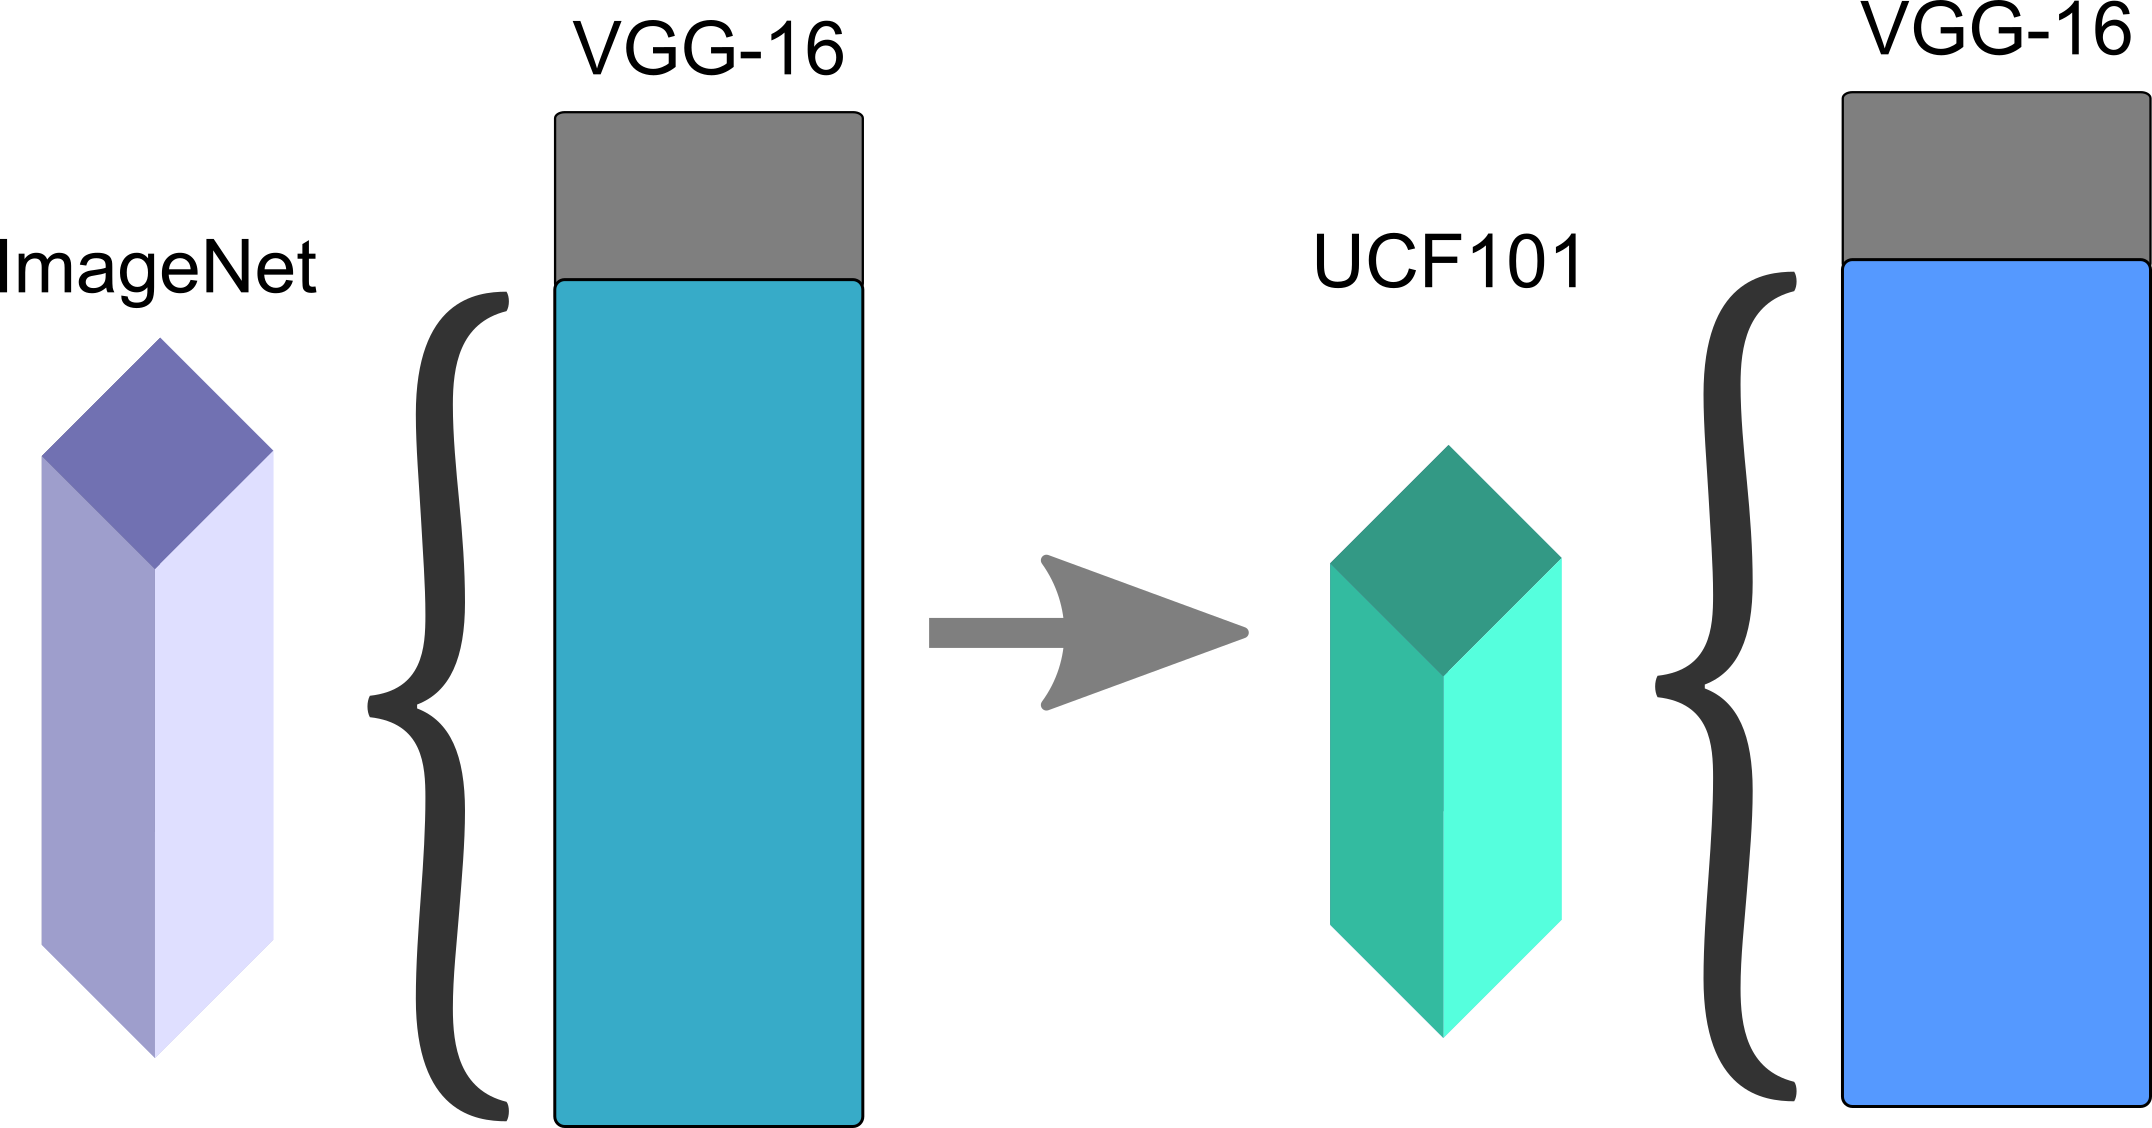
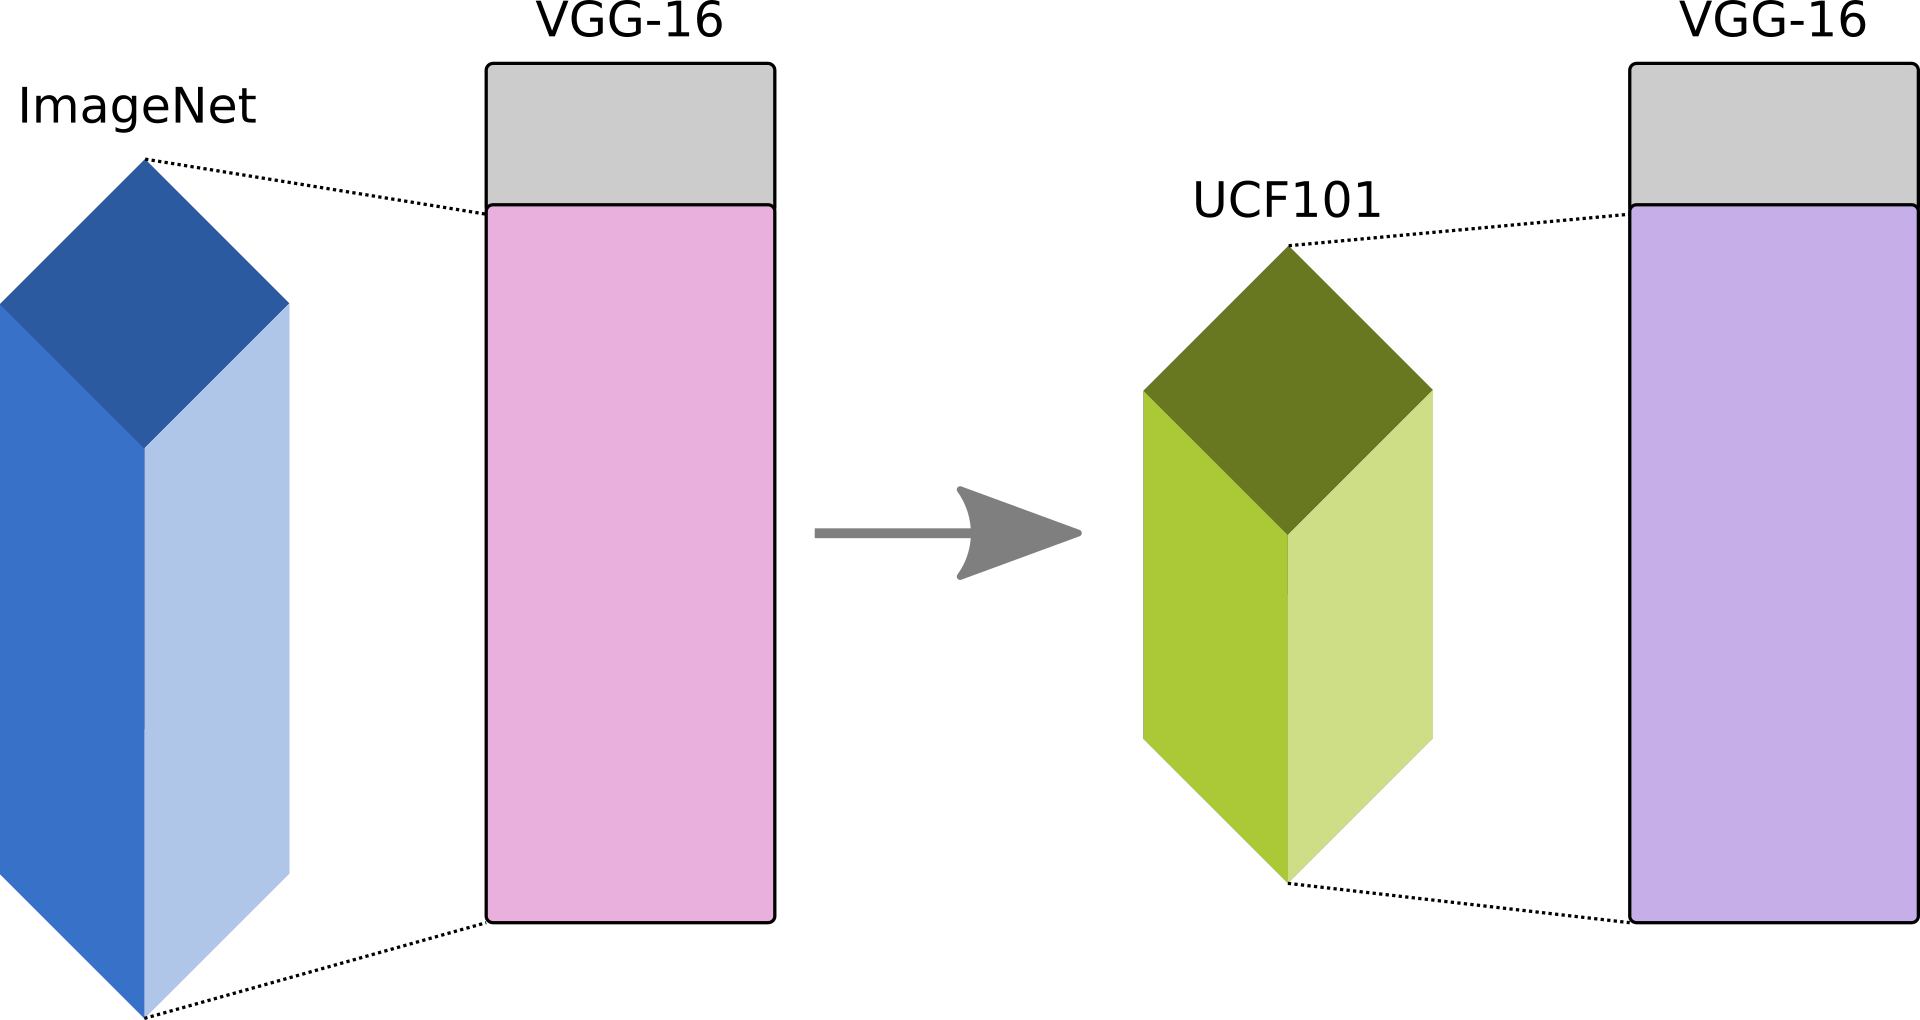
Updates from Overleaf

diff --git a/paper.tex b/paper.tex
@@ -81,39 +81,39 @@ This paper is organized as follows. In Section~\ref{sec:method} we detail the pr
 % ~\cite{sigal2018interpretable} % salinecy
 
 
-% \section{Background}
-% \label{background}
+\section{Background}
+\label{background}
 
-% In this section, we describe a few relevant concepts applied in the proposed method.
+In this section, we describe a few relevant concepts employed in Section~\ref{sec:method}.
 
-% \subsection{Optical Flow}
-% \label{sec:opticalflow}
+\subsection{Optical Flow}
+\label{sec:opticalflow}
 
-% Optical flow is a hand-crafted feature that conveys movement information between the frames of a video, either by object movement or camera shift, Figure~\ref{fig:opticalflow}. Its ability to describe movement enables this feature to support the deep network towards detecting falls.
+Optical flow is a hand-crafted feature that conveys movement information between two frames of a video, either by object or camera movement, Figure~\ref{fig:opticalflow}. Its ability to describe movement enables this feature to support the temporal aspect of a fall event in a deep network.
 
-% The extraction process considers a video frame as $I$ and $I(x, y, t)$ a pixel in this frame. Another frame collected $dt$ time later, and the distance that the same pixel moved $(dx, dy)$, described in Equation~\ref{eq:of-dist}.
+The extraction process considers a video frame as $I$ and $I(x, y, t)$ a pixel in this frame. Another frame collected $dt$ time later, and the distance that the same pixel moved $(dx, dy)$ is described in Equation~\ref{eq:of-dist}.
 
-% Optical flow Equation~\ref{eq:of} is formed after applying a Taylor series approximation of right-hand side and dividing by $dt$, $f_t$ is the gradient given time, $f_x$, $f_y$, $u$, and $v$ are given in Equation~\ref{eq:of-grad}. Values of $u$ and $v$ can be achieved by different methods, such as the classical Lucas-Kanade~\cite{jain2018abnormal} or the one used in this work: Gunnar-Farneb{\"a}ck~\cite{lowhur2015dense}.
+Optical flow's Equation~\ref{eq:of} is formed after applying a Taylor series approximation of right-hand side and dividing by $dt$, $f_t$ is the gradient given time, $f_x$, $f_y$, $u$, and $v$ are given in Equation~\ref{eq:of-grad}. Values of $u$ and $v$ can be achieved by different methods, such as the classical Lucas-Kanade~\cite{jain2018abnormal} or the one used in this work: Gunnar-Farneb{\"a}ck~\cite{lowhur2015dense}.
 
-% \begin{equation}
-% \label{eq:of-dist}
-% I(x, y, t)=I(x+dx, y+dy, t+dt)
-% \end{equation}
-% \begin{equation}
-% \label{eq:of}
-% f_xu + f_yv + f_t=0
-% \end{equation}
-% \begin{equation}
-% \label{eq:of-grad}
-% f_x = \frac{\partial f}{\partial x}; \quad f_y = \frac{\partial f}{\partial y}u = \frac{\partial x}{\partial t}; \quad v = \frac{\partial y}{\partial t}
-% \end{equation}
+\begin{equation}
+\label{eq:of-dist}
+I(x, y, t)=I(x+dx, y+dy, t+dt)
+\end{equation}
+\begin{equation}
+\label{eq:of}
+f_xu + f_yv + f_t=0
+\end{equation}
+\begin{equation}
+\label{eq:of-grad}
+f_x = \frac{\partial f}{\partial x}; \quad f_y = \frac{\partial f}{\partial y}u = \frac{\partial x}{\partial t}; \quad v = \frac{\partial y}{\partial t}
+\end{equation}
 
-% \subsection{Saliency Map}
-% \label{sec:saliency}
+\subsection{Saliency Map}
+\label{sec:saliency}
 
-% Saliency was envisioned as a visualizing technique to understand the learning process behind a deep network. It can be extracted in many ways, one of those is the practice of feeding a image $I$ to the network and its class label $c$, freeze the weights on the network and compute the gradients of $c$ with respect to the pixels of $I$. Consider $S_c(I)$ to be the class score function for an image $I$ and, for this simple explanation, that it is a simple linear function, $S_c(I) = w_c^{T} + b_c$. With $w$ being the weights of the network and $b$ the bias, it is possible to see that the magnitude of elements of $w$ affects the importance of the corresponding pixels in $I$ for class $c$.
+Saliency maps were envisioned as a visualizing technique to understand the learning process behind a deep network. It can be extracted in many ways, one of those being the practice of feeding an image $I$ and its class label $c$ to the network, then, freezing the weights on the network and compute the gradients of $c$ with respect to the pixels of $I$. Consider $S_c(I)$ to be the class score function for an image $I$ and, for this simple explanation, that it is a simple linear function, $S_c(I) = w_c^{T} + b_c$. With $w$ being the weights of the network and $b$ the bias, it is possible to see that the magnitude of elements of $w$ affects the importance of the corresponding pixels in $I$ for class $c$.
 
-% The saliency map was chosen as a stream for its spatial relation to the frame, as the raw RGB frames are prone to interference, for instance from brightness variation, we believe the saliency is capable to overcome these variables. This work's saliency extractor is implemented after the paper of Sundararajan et al.~\cite{sundararajan2017axiomatic}.
+The saliency map was chosen as a stream for its spatial relation to the frame, as the raw RGB frames are prone to interference, for instance from brightness variation, we believe the saliency is capable to overcome these variables. This work's saliency extractor is implemented after the paper of Sundararajan et al.~\cite{sundararajan2017axiomatic}.
 
 \section{Method}
 \label{sec:method}
@@ -143,8 +143,8 @@ The first 14 layers of the VGG-16 architecture were trained on the ImageNet~\cit
 The 14 initial layer's weights were then frozen, and the last two fully connected layers were separately fine-tuned, with dropout regularization, over the extracted hand-crafted features of the URFD~\cite{kepski2014human} and FDD~\cite{charfi2013optimised} datasets. The last fine-tuning was performed three times, one for each of the extracted hand-crafted features, Figure~\ref{fig:pos14}.
 
 \begin{figure}[htbp]
-\centerline{\includegraphics[width=\linewidth]{figures/overview.png}}
-\caption{Methodology overview.}
+\centerline{\includegraphics[width=0.4\linewidth]{figures/pos14.png}}
+\caption{Fully connected layers training.}
 \label{fig:pos14}
 \end{figure}
 
